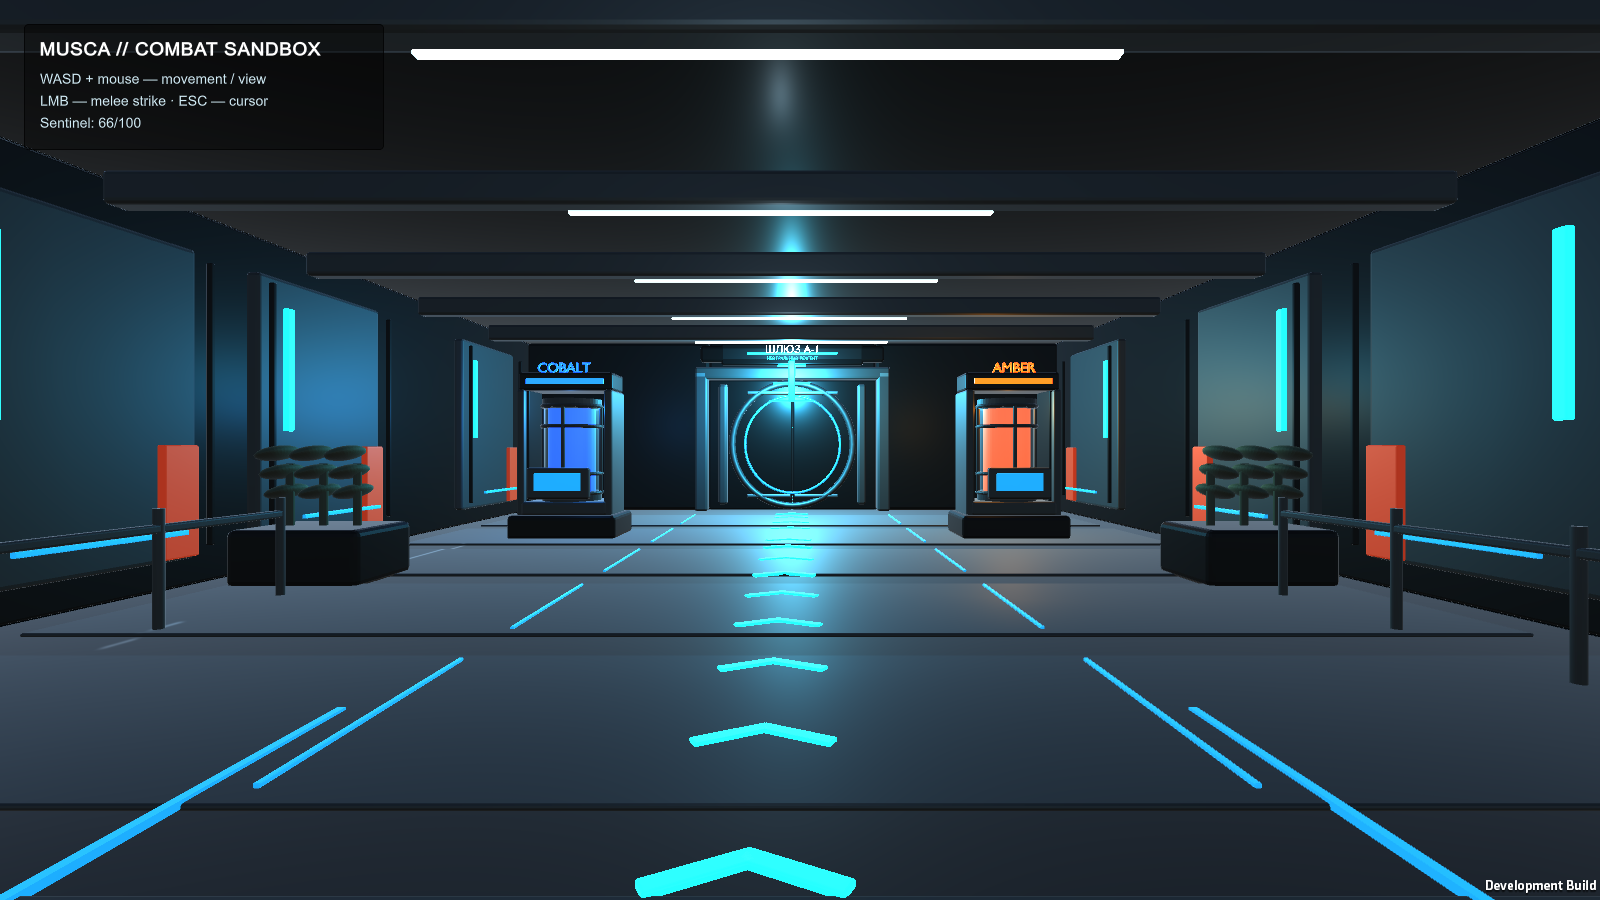
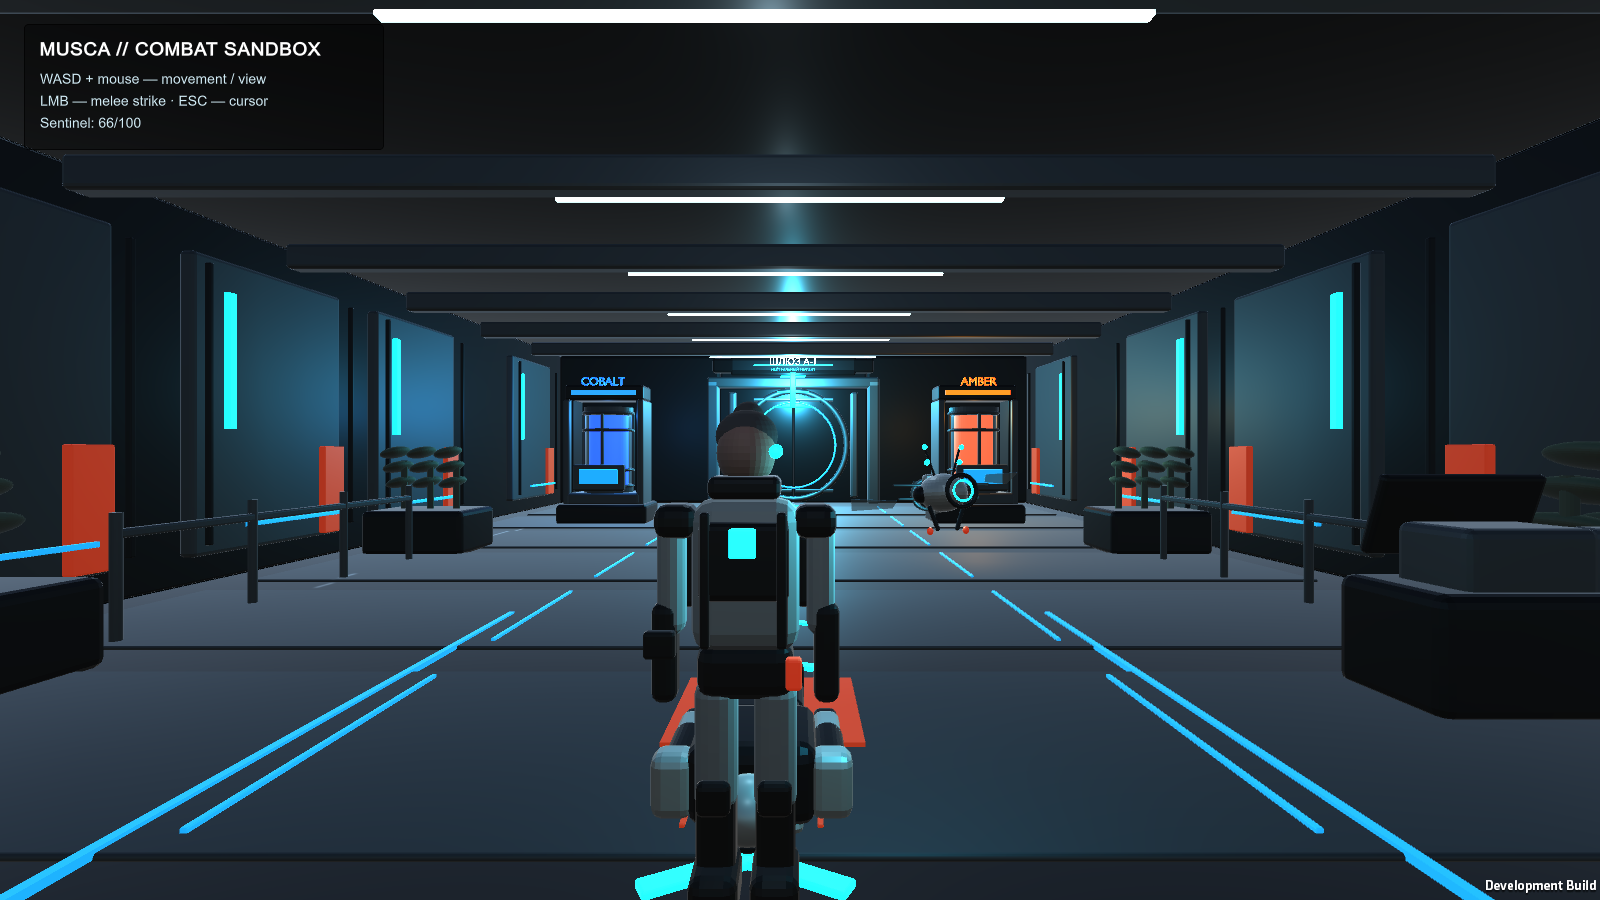
fix(unity): repair combat grounding collision

diff --git a/unity/MUSCA-Gate3D/Assets/MUSCA/Runtime/RuntimeQaCapture.cs b/unity/MUSCA-Gate3D/Assets/MUSCA/Runtime/RuntimeQaCapture.cs
@@ -25,6 +25,10 @@ namespace MUSCA.Gate3D
             public bool sentinelAlive;
             public bool grounded;
             public bool collisionSafe;
+            public bool groundProbeHit;
+            public string groundProbeCollider;
+            public float groundProbePointY;
+            public float groundProbeDistance;
             public string screenshot;
         }
 
@@ -52,6 +56,8 @@ namespace MUSCA.Gate3D
             int combatHits = 0;
             CombatDamageReceiver combatTarget = FindAnyObjectByType<CombatDamageReceiver>();
             CharacterController character = player.GetComponent<CharacterController>();
+            bool groundingWasGrounded = false;
+            float groundingSettledY = 0f;
             switch (view)
             {
                 case "spawn":
@@ -110,6 +116,9 @@ namespace MUSCA.Gate3D
             if (view == "grounding")
             {
                 yield return new WaitForSeconds(1.0f);
+                groundingWasGrounded = player.LastMoveGrounded ||
+                    (character != null && character.isGrounded);
+                groundingSettledY = player.transform.position.y;
                 player.InputEnabled = false;
                 FirstPersonController.UnlockCursor();
             }
@@ -128,8 +137,28 @@ namespace MUSCA.Gate3D
 
             GateSnapshot snapshot = runtime.Snapshot();
             Vector3 position = player.transform.position;
-            bool grounded = character != null && character.isGrounded;
-            bool collisionSafe = view != "grounding" || (grounded && position.y > -0.1f);
+            bool grounded = view == "grounding"
+                ? groundingWasGrounded
+                : character != null && character.isGrounded;
+            float collisionCheckY = view == "grounding" ? groundingSettledY : position.y;
+            bool groundProbeHit = false;
+            string groundProbeCollider = string.Empty;
+            float groundProbePointY = 0f;
+            float groundProbeDistance = 0f;
+            if (view == "grounding")
+            {
+                RaycastHit groundHit;
+                groundProbeHit = TryGroundProbe(player.transform, out groundHit);
+                if (groundProbeHit)
+                {
+                    groundProbeCollider = TransformPath(groundHit.collider.transform);
+                    groundProbePointY = groundHit.point.y;
+                    groundProbeDistance = groundHit.distance;
+                }
+            }
+            bool collisionSafe = view != "grounding" ||
+                (collisionCheckY > -0.1f && groundProbeHit &&
+                 groundProbePointY > -0.5f && groundProbePointY < 0.5f);
             var receipt = new QaReceipt
             {
                 view = view,
@@ -144,6 +173,10 @@ namespace MUSCA.Gate3D
                 sentinelAlive = combatTarget != null && combatTarget.IsAlive,
                 grounded = grounded,
                 collisionSafe = collisionSafe,
+                groundProbeHit = groundProbeHit,
+                groundProbeCollider = groundProbeCollider,
+                groundProbePointY = groundProbePointY,
+                groundProbeDistance = groundProbeDistance,
                 screenshot = fullOutput
             };
             string jsonPath = Path.ChangeExtension(fullOutput, ".json");
@@ -151,6 +184,41 @@ namespace MUSCA.Gate3D
             Debug.Log($"MUSCA_QA_CAPTURE view={view} screenshot={fullOutput} receipt={jsonPath}");
             yield return null;
             Application.Quit(0);
+        }
+
+        private static bool TryGroundProbe(Transform owner, out RaycastHit nearest)
+        {
+            RaycastHit[] hits = Physics.RaycastAll(
+                new Vector3(owner.position.x, 3f, owner.position.z),
+                Vector3.down, 10f, ~0, QueryTriggerInteraction.Ignore);
+            Array.Sort(hits, (a, b) => a.distance.CompareTo(b.distance));
+            foreach (RaycastHit hit in hits)
+            {
+                if (hit.collider == null ||
+                    hit.collider.transform == owner ||
+                    hit.collider.transform.IsChildOf(owner))
+                {
+                    continue;
+                }
+
+                nearest = hit;
+                return true;
+            }
+
+            nearest = default;
+            return false;
+        }
+
+        private static string TransformPath(Transform value)
+        {
+            string path = value.name;
+            Transform current = value.parent;
+            while (current != null)
+            {
+                path = current.name + "/" + path;
+                current = current.parent;
+            }
+            return path;
         }
 
         private static string ArgValue(string prefix)

diff --git a/unity/MUSCA-Gate3D/Assets/MUSCA/Editor/CombatSandboxValidator.cs b/unity/MUSCA-Gate3D/Assets/MUSCA/Editor/CombatSandboxValidator.cs
@@ -23,6 +23,9 @@ namespace MUSCA.Gate3D.Editor
             public bool playerCombat;
             public bool sentinelHealth;
             public bool sentinelCollider;
+            public bool sentinelColliderWorldSizeValid;
+            public bool sentinelOverlapsPlayer;
+            public Vector3 sentinelColliderWorldSize;
             public bool companionPresent;
             public bool formEnvironmentPresent;
             public bool collisionFloorEnabled;
@@ -43,7 +46,9 @@ namespace MUSCA.Gate3D.Editor
             GameObject functionEnvironment = FindRoot(scene, "Function_Environment", findings);
 
             PlayerMeleeCombat combat = player != null ? player.GetComponent<PlayerMeleeCombat>() : null;
+            CharacterController playerCharacter = player != null ? player.GetComponent<CharacterController>() : null;
             if (combat == null) findings.Add("player melee combat missing");
+            if (playerCharacter == null) findings.Add("player CharacterController missing");
 
             Transform sentinelTransform = sandbox != null ? sandbox.transform.Find("Sentinel_v01") : null;
             CombatDamageReceiver health = sentinelTransform != null ? sentinelTransform.GetComponent<CombatDamageReceiver>() : null;
@@ -53,6 +58,18 @@ namespace MUSCA.Gate3D.Editor
             if (health == null) findings.Add("sentinel health missing");
             if (collider == null) findings.Add("sentinel collider missing");
             if (rendererCount == 0) findings.Add("sentinel renderers missing");
+
+            Vector3 sentinelColliderWorldSize = collider != null ? collider.bounds.size : Vector3.zero;
+            bool sentinelColliderWorldSizeValid = collider != null &&
+                sentinelColliderWorldSize.x >= 0.65f && sentinelColliderWorldSize.x <= 1.05f &&
+                sentinelColliderWorldSize.y >= 1.55f && sentinelColliderWorldSize.y <= 1.95f &&
+                sentinelColliderWorldSize.z >= 0.65f && sentinelColliderWorldSize.z <= 1.05f;
+            if (!sentinelColliderWorldSizeValid)
+                findings.Add($"sentinel collider world size invalid: {sentinelColliderWorldSize}");
+
+            bool sentinelOverlapsPlayer = collider != null && playerCharacter != null &&
+                collider.bounds.Intersects(playerCharacter.bounds);
+            if (sentinelOverlapsPlayer) findings.Add("sentinel collider overlaps player at authored spawn");
 
             if (companion == null || companion.GetComponent<MuscaCompanion>() == null)
                 findings.Add("MUSCA companion missing");
@@ -92,6 +109,9 @@ namespace MUSCA.Gate3D.Editor
                 playerCombat = combat != null,
                 sentinelHealth = health != null,
                 sentinelCollider = collider != null,
+                sentinelColliderWorldSizeValid = sentinelColliderWorldSizeValid,
+                sentinelOverlapsPlayer = sentinelOverlapsPlayer,
+                sentinelColliderWorldSize = sentinelColliderWorldSize,
                 companionPresent = companion != null && companion.GetComponent<MuscaCompanion>() != null,
                 formEnvironmentPresent = formEnvironment != null,
                 collisionFloorEnabled = collisionFloorEnabled,

diff --git a/unity/MUSCA-Gate3D/Assets/MUSCA/Editor/CombatSandboxBuild.cs b/unity/MUSCA-Gate3D/Assets/MUSCA/Editor/CombatSandboxBuild.cs
@@ -21,6 +21,9 @@ namespace MUSCA.Gate3D.Editor
             public ulong bytes;
             public long exeBytes;
             public string exeSha256;
+            public string runtimeDll;
+            public long runtimeDllBytes;
+            public string runtimeDllSha256;
             public int errors;
             public int warnings;
         }
@@ -45,6 +48,10 @@ namespace MUSCA.Gate3D.Editor
             BuildReport report = BuildPipeline.BuildPlayer(options);
             BuildSummary summary = report.summary;
             bool passed = summary.result == BuildResult.Succeeded && summary.totalErrors == 0;
+            string outputDirectory = Path.GetDirectoryName(output) ?? projectRoot;
+            string dataDirectory = Path.Combine(outputDirectory,
+                Path.GetFileNameWithoutExtension(output) + "_Data");
+            string runtimeDll = Path.Combine(dataDirectory, "Managed", "MUSCA.Gate3D.Runtime.dll");
             var receipt = new Receipt
             {
                 status = passed ? "PASS" : "FAIL",
@@ -54,6 +61,9 @@ namespace MUSCA.Gate3D.Editor
                 bytes = summary.totalSize,
                 exeBytes = File.Exists(output) ? new FileInfo(output).Length : 0L,
                 exeSha256 = File.Exists(output) ? Sha256(output) : string.Empty,
+                runtimeDll = runtimeDll,
+                runtimeDllBytes = File.Exists(runtimeDll) ? new FileInfo(runtimeDll).Length : 0L,
+                runtimeDllSha256 = File.Exists(runtimeDll) ? Sha256(runtimeDll) : string.Empty,
                 errors = (int)summary.totalErrors,
                 warnings = (int)summary.totalWarnings
             };

diff --git a/unity/MUSCA-Gate3D/Assets/MUSCA/Editor/CombatSandboxBuilder.cs b/unity/MUSCA-Gate3D/Assets/MUSCA/Editor/CombatSandboxBuilder.cs
@@ -53,9 +53,7 @@ namespace MUSCA.Gate3D.Editor
 
             CapsuleCollider capsule = sentinel.GetComponent<CapsuleCollider>();
             if (capsule == null) capsule = sentinel.AddComponent<CapsuleCollider>();
-            capsule.center = new Vector3(0f, 0.88f, 0f);
-            capsule.height = 1.76f;
-            capsule.radius = 0.42f;
+            ConfigureWorldCapsule(capsule, 1.76f, 0.42f, 0.88f);
 
             CombatDamageReceiver receiver = sentinel.GetComponent<CombatDamageReceiver>();
             if (receiver == null) receiver = sentinel.AddComponent<CombatDamageReceiver>();
@@ -76,6 +74,19 @@ namespace MUSCA.Gate3D.Editor
             AssetDatabase.Refresh();
             Selection.activeGameObject = sentinel;
             Debug.Log($"MUSCA_COMBAT_SANDBOX_BUILT scene={TargetScene}");
+        }
+
+        private static void ConfigureWorldCapsule(
+            CapsuleCollider capsule, float worldHeight, float worldRadius, float worldCenterY)
+        {
+            Vector3 scale = capsule.transform.lossyScale;
+            float scaleY = Mathf.Max(0.0001f, Mathf.Abs(scale.y));
+            float scaleRadius = Mathf.Max(0.0001f, Mathf.Max(Mathf.Abs(scale.x), Mathf.Abs(scale.z)));
+
+            capsule.direction = 1;
+            capsule.center = new Vector3(0f, worldCenterY / scaleY, 0f);
+            capsule.height = worldHeight / scaleY;
+            capsule.radius = worldRadius / scaleRadius;
         }
 
         private static void CreateArenaMarkers(Transform parent)

diff --git a/unity/MUSCA-Gate3D/Assets/MUSCA/Runtime/FirstPersonController.cs b/unity/MUSCA-Gate3D/Assets/MUSCA/Runtime/FirstPersonController.cs
@@ -16,11 +16,14 @@ namespace MUSCA.Gate3D
 
         private CharacterController _controller;
         private float _pitch;
+        private CollisionFlags _lastMoveCollisionFlags;
         private readonly RaycastHit[] _cameraHits = new RaycastHit[16];
 
         public bool InputEnabled { get; set; } = true;
         public Camera PlayerCamera => playerCamera;
         public Vector3 CameraLocalPosition => cameraLocalPosition;
+        public CollisionFlags LastMoveCollisionFlags => _lastMoveCollisionFlags;
+        public bool LastMoveGrounded => (_lastMoveCollisionFlags & CollisionFlags.Below) != 0;
 
         private void Awake()
         {
@@ -62,11 +65,11 @@ namespace MUSCA.Gate3D
             Vector3 input = new Vector3(Input.GetAxisRaw("Horizontal"), 0f, Input.GetAxisRaw("Vertical"));
             input = Vector3.ClampMagnitude(input, 1f);
             Vector3 velocity = transform.TransformDirection(input) * moveSpeed;
-            if (!_controller.isGrounded)
-            {
-                velocity.y = -2f;
-            }
-            _controller.Move(velocity * Time.deltaTime);
+            // Keep a small downward bias every frame so CharacterController
+            // maintains stable contact with the floor instead of flapping
+            // between grounded/not-grounded when planar input is idle.
+            velocity.y = -2f;
+            _lastMoveCollisionFlags = _controller.Move(velocity * Time.deltaTime);
         }
 
         private void LateUpdate()

diff --git a/unity/MUSCA-Gate3D/Docs/AI/CombatSandboxV01.md b/unity/MUSCA-Gate3D/Docs/AI/CombatSandboxV01.md
@@ -21,19 +21,29 @@ The sandbox is not a claim that MUSCA already has souls-like combat. Its purpose
 - Scene: `Assets/MUSCA/Scenes/CombatSandbox_v01.unity`
 - Sentinel source: `blender/gate-lab-v0.2/Combat_Sentinel_v0.1.blend`
 - Sentinel Unity FBX: `Assets/MUSCA/Art/CombatV01/Sentinel_FormProxy_v0.1.fbx`
-- Runtime QA: `Docs/AI/RuntimeQA/combat-v01.*` and `combatstrike-v01.*`
+- Runtime QA: `Docs/AI/RuntimeQA/combat-v01.*`, `combatstrike-v01.*` and `grounding-v01.*`
 
 ## Automated evidence
 
-Pre-fix evidence at commit `5e92a1b982584133a28fc758ca2cb2168b0cd4c7` showed:
+Human playtesting falsified the original floor-collision assumption: the player could fall below the visible floor.
+
+The audit found two collision defects:
+
+- the hidden Function floor collider had been disabled under the Form v0.3 visual layer;
+- the decisive runtime fault was the Sentinel collider: the imported FBX root has `lossyScale = 100`, so a locally authored 0.42 m × 1.76 m capsule became an 84 m × 176 m × 84 m world collider and overlapped the player spawn.
+
+The corrected builder preserves the Function collision proxy and converts desired Sentinel world dimensions into local collider dimensions using the imported root scale. The validator now rejects an oversized Sentinel collider or a Sentinel/player spawn overlap.
+
+Current evidence:
 
 - Blender procedural Sentinel validation: PASS.
-- Unity scene validation: PASS, but the validator did not assert floor collision.
-- EditMode tests: 11/11 PASS, including four combat-foundation tests.
+- Unity scene validation: PASS; zero missing scripts; Function floor collider enabled.
+- Sentinel collider world bounds: approximately 0.84 m × 1.76 m × 0.84 m; player-spawn overlap: false.
+- EditMode tests: 11/11 PASS.
 - Windows Development build: PASS, 0 errors, 0 warnings.
-- Runtime QA confirmed the melee path, but it disabled player movement and therefore did not exercise gravity/collision.
-
-Human playtesting then falsified the implied floor-collision assumption: the player could fall through the visible floor. The collision proxy, validator and runtime grounding QA have been corrected on the feature branch. Current Unity validation, Windows rebuild and grounding runtime QA are **pending rerun**.
[1 lines of base64/hex data omitted]
+- Grounding runtime QA: PASS; player settles at y ≈ 0.08 with `grounded=true`, `collisionSafe=true`, and a physics probe resolves `Function_Environment/Floor` at y = 0.
+- Melee runtime QA: PASS; exactly one strike registers and Sentinel health changes 100 → 66.
 
 See:
 
@@ -43,7 +53,7 @@ See:
 
 ## Claim boundary
 
-The pre-fix build proved the executable melee foundation but did not prove player grounding. The current collision fix must be rebuilt and revalidated before the updated branch can claim runtime PASS.
+The rebuilt development executable passes the automated grounding regression and the deterministic melee regression. This closes the specific reported fall-through defect at the tested combat probe; it does not replace human free-movement testing.
 
 It does **not** prove:
 
